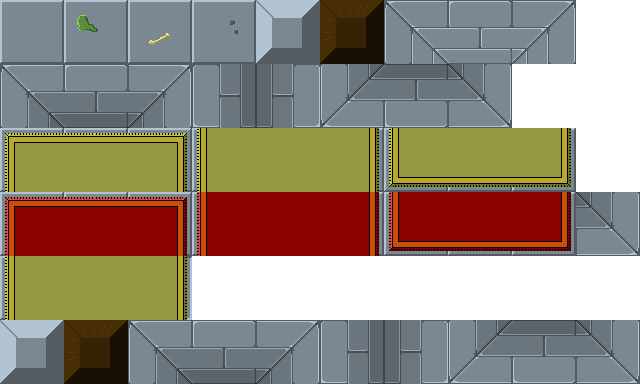
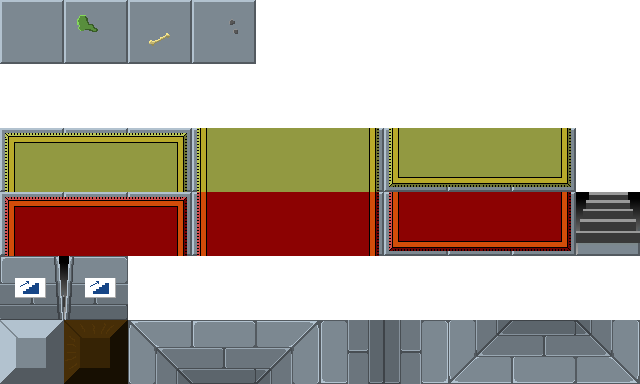
ADD Stairs up to exit room

Changed region(s): [[0.0, 0.0, 0.9062, 0.3438], [0.0, 0.6562, 0.3125, 0.8438], [0.875, 0.5, 1.0, 0.6875]]

diff --git a/src/DungeonMap.h b/src/DungeonMap.h
@@ -6,6 +6,7 @@
 #include <list>
 
 const int MAP_NORMAL_FLOOR  =   3;
+const int MAP_STAIRS_UP     =   39;
 const int MAP_WALL          =   50;
 const int MAP_DOOR          =   51;
 const int MAP_WALL_7        =   52;
@@ -64,6 +65,7 @@ class DungeonMap : public GameMap
     void initRoom();
     void generateCarpet(int x0, int y0, int w, int h, int n);
     void generateRoom(int type);
+    void generateExitRoom();
     Vector2D generateBonusRoom();
     Vector2D generateMerchantRoom();
     Vector2D generateKeyRoom();

diff --git a/src/DungeonMap.cpp b/src/DungeonMap.cpp
@@ -359,6 +359,15 @@ Vector2D DungeonMap::generateKeyRoom()
   return (Vector2D(OFFSET_X + x0 * TILE_WIDTH + TILE_WIDTH / 2, OFFSET_Y + y0 * TILE_HEIGHT + TILE_HEIGHT / 2));
 }
 
+void DungeonMap::generateExitRoom()
+{
+  initRoom();
+  int x0 = MAP_WIDTH / 2;
+  map[x0][0] = MAP_STAIRS_UP;
+  map[x0 - 1][0] = 40;
+  map[x0 + 1][0] = 41;
+}
+
 void DungeonMap::generateRoom(int type)
 {
   initRoom();

diff --git a/src/DoorEntity.cpp b/src/DoorEntity.cpp
@@ -12,18 +12,13 @@ DoorEntity::DoorEntity(int direction) : SpriteEntity (ImageManager::getImageMana
   z = -0.5f;
   type = ENTITY_DOOR;
   doorType = 0;
-
-  //isOpen = false;
-  //timer = DOOR_CLOSE_TIME;
 }
 
 
 void DoorEntity::animate(float delay)
 {
   age += delay;
-
   if (timer > 0.0f) timer -= delay;
-  //SpriteEntity::animate(delay);
 }
 
 void DoorEntity::setOpen(bool open)
